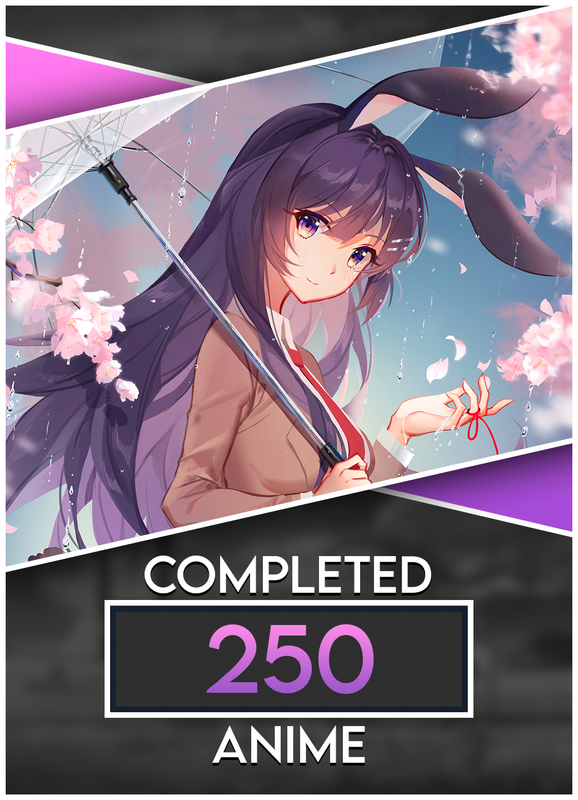
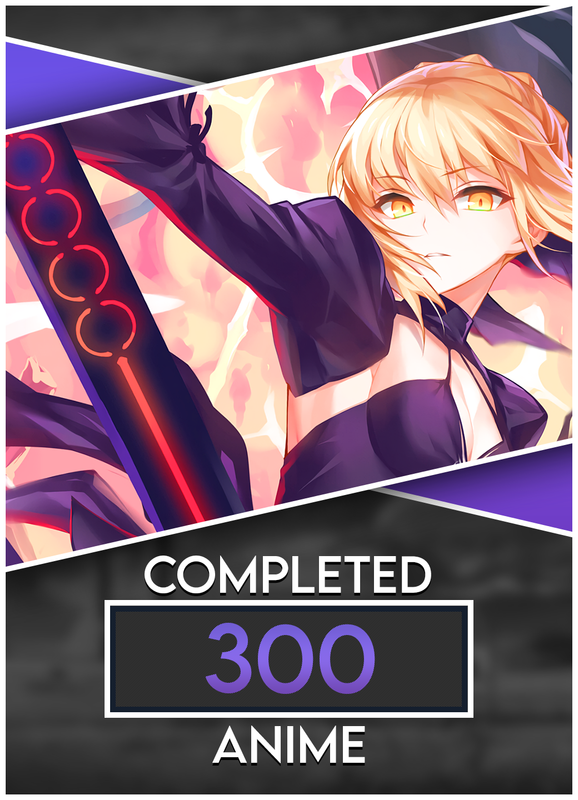
Updated badges and fixed broken ip copy

diff --git a/index.html b/index.html
@@ -1125,21 +1125,21 @@
     <a href="https://modrinth.com/modpack/simply-better" target="_blank">Download Simply Better</a>
 </div>
 
-                        <div class="icon-box">
-                            <img src="images/minecraftorigin.png" alt="Minecraft Origins">
-                            <h4>Origins Server</h4>
-                            <p class="status-text">Private</p>
-                            <p>Modded fabric server based on Origins mod.</p>
+<div class="icon-box">
+    <img src="images/minecraftorigin.png" alt="Minecraft Origins">
+    <h4>Origins Server</h4>
+    <p class="status-text">Private</p>
+    <p>Modded fabric server based on Origins mod.</p>
 
-                                <div class="server-ip-container">
+    <div class="server-ip-container">
         <div class="server-ip-label">Server IP:</div>
         <div class="server-ip-display" title="Click to copy">
-            <span id="server-ip-text">origin.swightshome.xyz</span>
+            <span id="origins-server-ip-text">origin.swightshome.xyz</span> <!-- CHANGED ID -->
             <div class="copy-notification">Copied!</div>
         </div>
     </div>
-                            <a href="downloads/The Origins.mrpack" download>Download Modpack</a>
-                        </div>
+    <a href="downloads/The Origins.mrpack" download>Download Modpack</a>
+</div>
                     </div>
                 </div>
             </div>
@@ -1752,45 +1752,51 @@ document.addEventListener('DOMContentLoaded', function() {
 window.addEventListener('hashchange', function() {
     scrollToAnchorWithOffset(location.hash, false);
 });
-// Server IP copy functionality - FIXED
+// Server IP copy functionality - FIXED FOR BOTH SERVERS
 document.addEventListener('DOMContentLoaded', function() {
-    const serverIpElement = document.querySelector('.server-ip-display');
-    const serverIpText = document.getElementById('server-ip-text');
-    const copyNotification = document.querySelector('.copy-notification');
-    
-    if (serverIpElement && serverIpText) {
-        serverIpElement.addEventListener('click', function() {
-            const ip = serverIpText.textContent.trim();
-            
-            // Copy to clipboard
-            navigator.clipboard.writeText(ip).then(function() {
-                // Show notification
-                copyNotification.classList.add('show');
+    // Function to handle copying for any server IP element
+    function setupServerIpCopy(serverIpElement) {
+        const serverIpText = serverIpElement.querySelector('span');
+        const copyNotification = serverIpElement.querySelector('.copy-notification');
+        
+        if (serverIpElement && serverIpText) {
+            serverIpElement.addEventListener('click', function() {
+                const ip = serverIpText.textContent.trim();
                 
-                // Hide notification after 2 seconds
-                setTimeout(function() {
-                    copyNotification.classList.remove('show');
-                }, 2000);
-            }).catch(function(err) {
-                console.error('Failed to copy IP: ', err);
-                // Fallback for older browsers
-                const textArea = document.createElement('textarea');
-                textArea.value = ip;
-                document.body.appendChild(textArea);
-                textArea.select();
-                document.execCommand('copy');
-                document.body.removeChild(textArea);
-                
-                // Show notification
-                copyNotification.classList.add('show');
-                
-                // Hide notification after 2 seconds
-                setTimeout(function() {
-                    copyNotification.classList.remove('show');
-                }, 2000);
+                // Copy to clipboard
+                navigator.clipboard.writeText(ip).then(function() {
+                    // Show notification
+                    copyNotification.classList.add('show');
+                    
+                    // Hide notification after 2 seconds
+                    setTimeout(function() {
+                        copyNotification.classList.remove('show');
+                    }, 2000);
+                }).catch(function(err) {
+                    console.error('Failed to copy IP: ', err);
+                    // Fallback for older browsers
+                    const textArea = document.createElement('textarea');
+                    textArea.value = ip;
+                    document.body.appendChild(textArea);
+                    textArea.select();
+                    document.execCommand('copy');
+                    document.body.removeChild(textArea);
+                    
+                    // Show notification
+                    copyNotification.classList.add('show');
+                    
+                    // Hide notification after 2 seconds
+                    setTimeout(function() {
+                        copyNotification.classList.remove('show');
+                    }, 2000);
+                });
             });
-        });
+        }
     }
+    
+    // Set up copy functionality for ALL server IP displays
+    const serverIpElements = document.querySelectorAll('.server-ip-display');
+    serverIpElements.forEach(setupServerIpCopy);
 });
     </script>
 </body>
